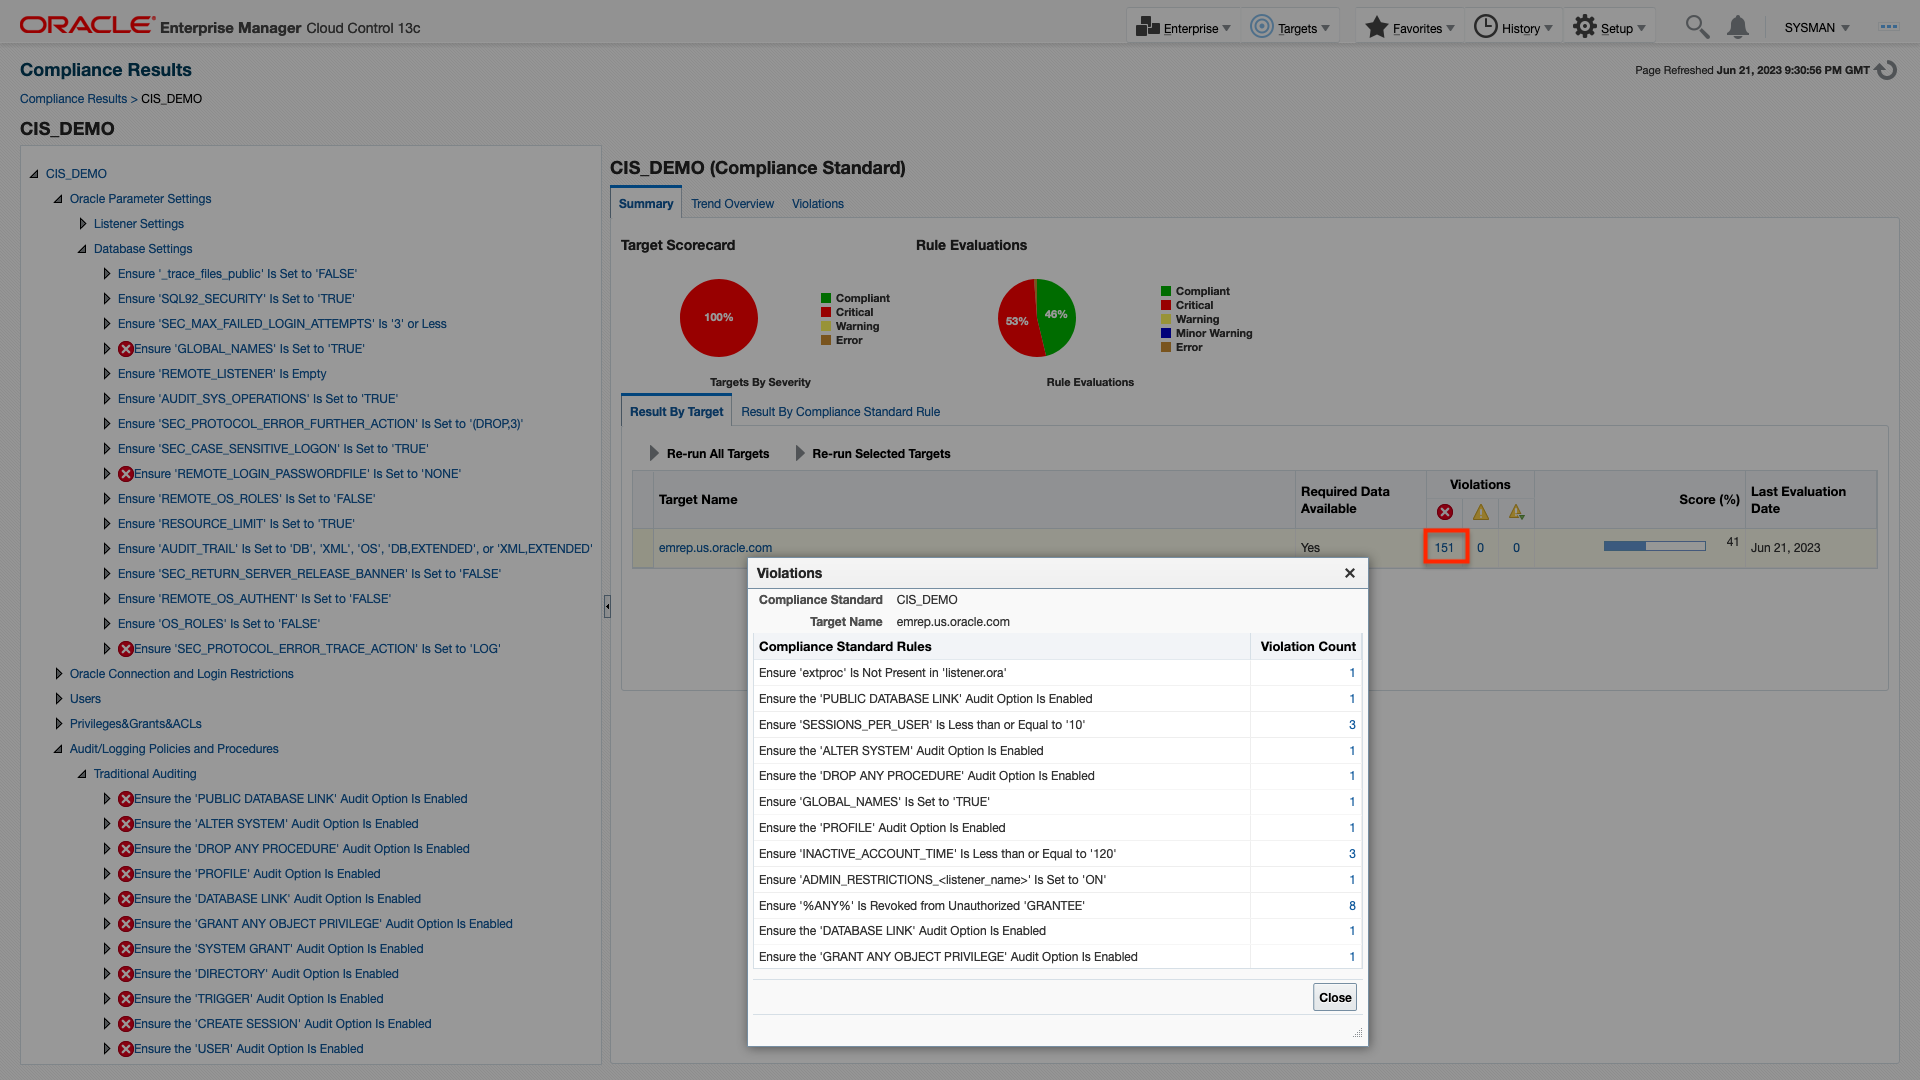
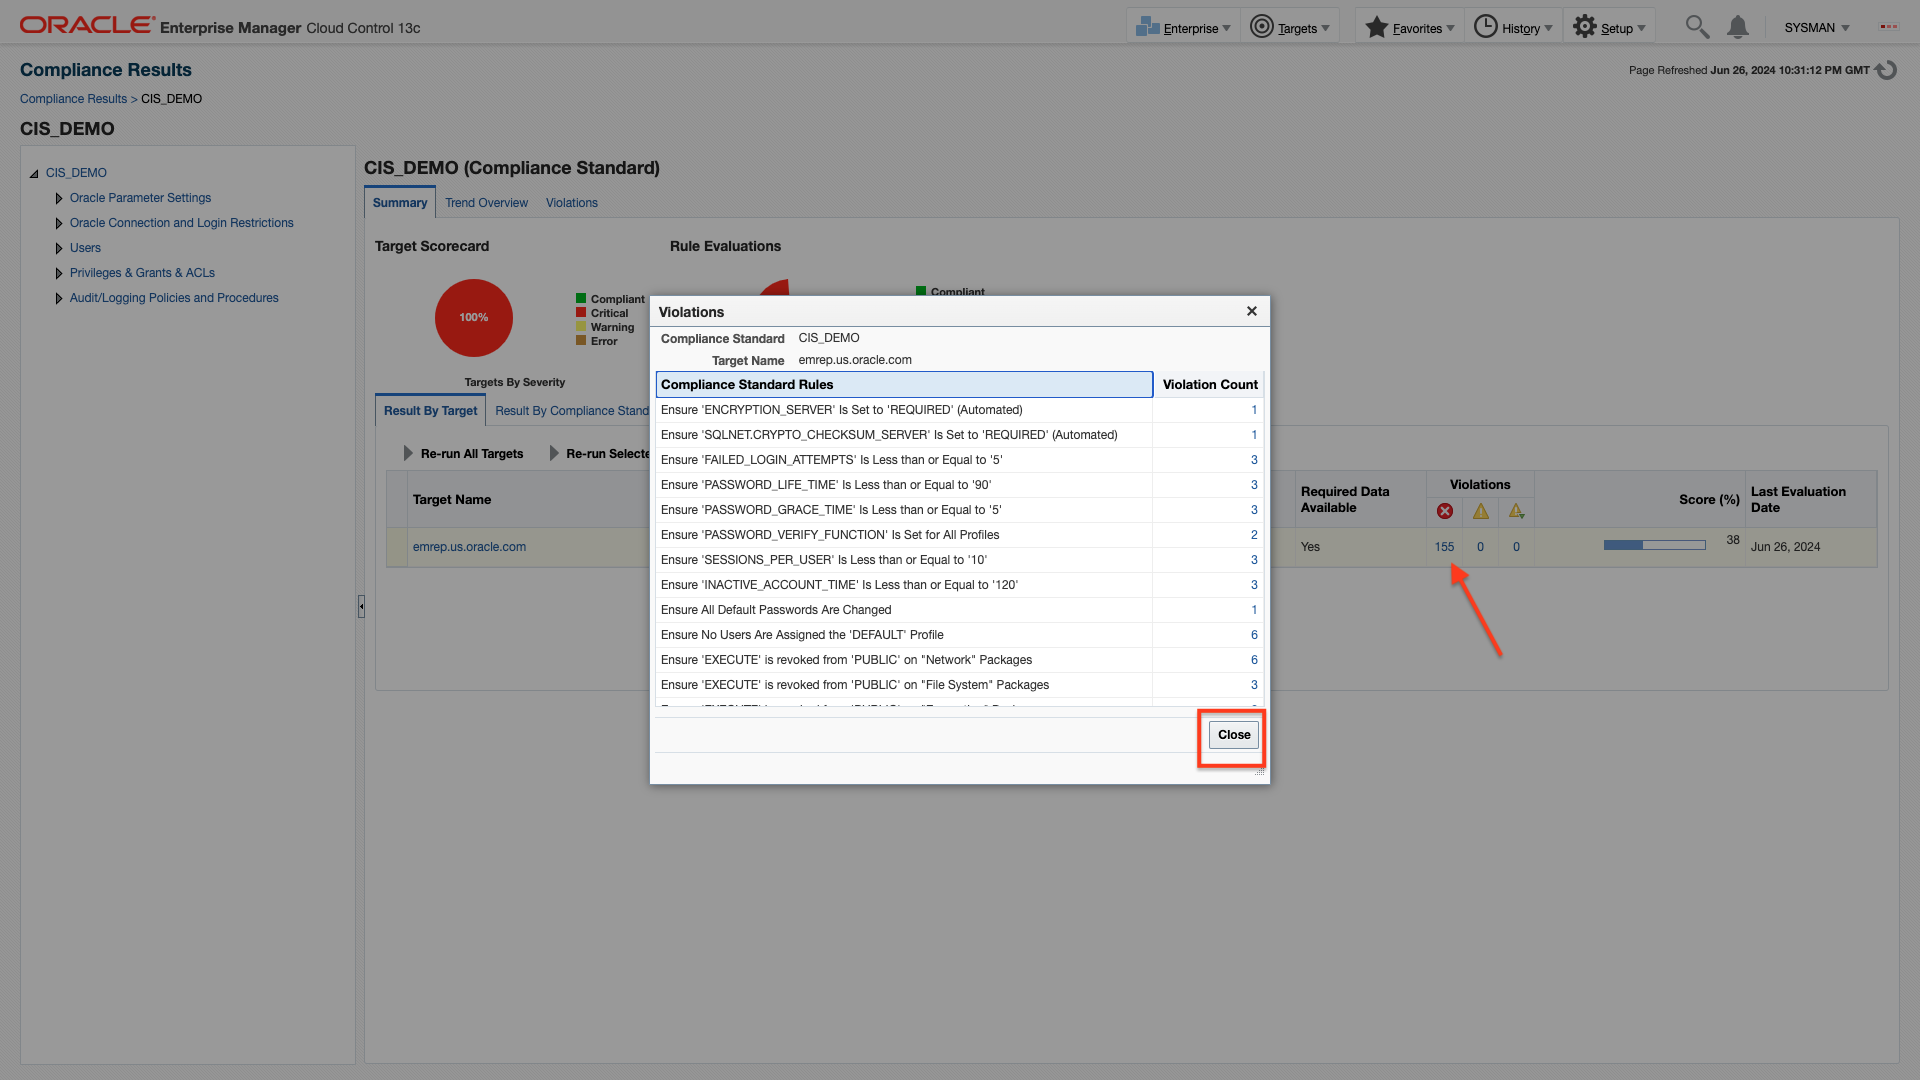
md file updates

diff --git a/enterprise-manager/emcc/em-configuration-compliance-management/em-configuration-compliance-management.md b/enterprise-manager/emcc/em-configuration-compliance-management/em-configuration-compliance-management.md
@@ -522,15 +522,20 @@ Click the **Cancel** button.
 
     ![cis-compliance-results-by-standard-rules-page](images/cis-compliance-results-by-standard-rules.png " cis-compliance-results-by-standard-rules-page ")
 
-    By clicking on **Violations**, each CIS compliance Standard Rules Violations can be seen as follows
+21. By clicking on **Violations**, each CIS compliance Standard Rules Violations can be seen as follows
 
     ![cis-compliance-results-by-standard-rules1-page](images/cis-compliance-results-by-standard-rules1.png " cis-compliance-results-by-standard-rules1-page ")
 
+    Click **Close**
+    
     Further, each violations event details, recommendations and remediations could be explored
 
     ![cis-compliance-results-by-standard-rules2-page](images/cis-compliance-results-by-standard-rules2.png " cis-compliance-results-by-standard-rules2-page ")
 
-  All of these will give you a CIS Compliance security posture of database target.
+    ![cis-compliance-results-logout-page](images/cis-compliance-results-logout-page.png " cis-compliance-results-logout-page ")  
+
+    <!-- All of these steps will give you a CIS Compliance security posture of database target. -->  
+    
 
 ## Task 5: Host Security Compliance
 
